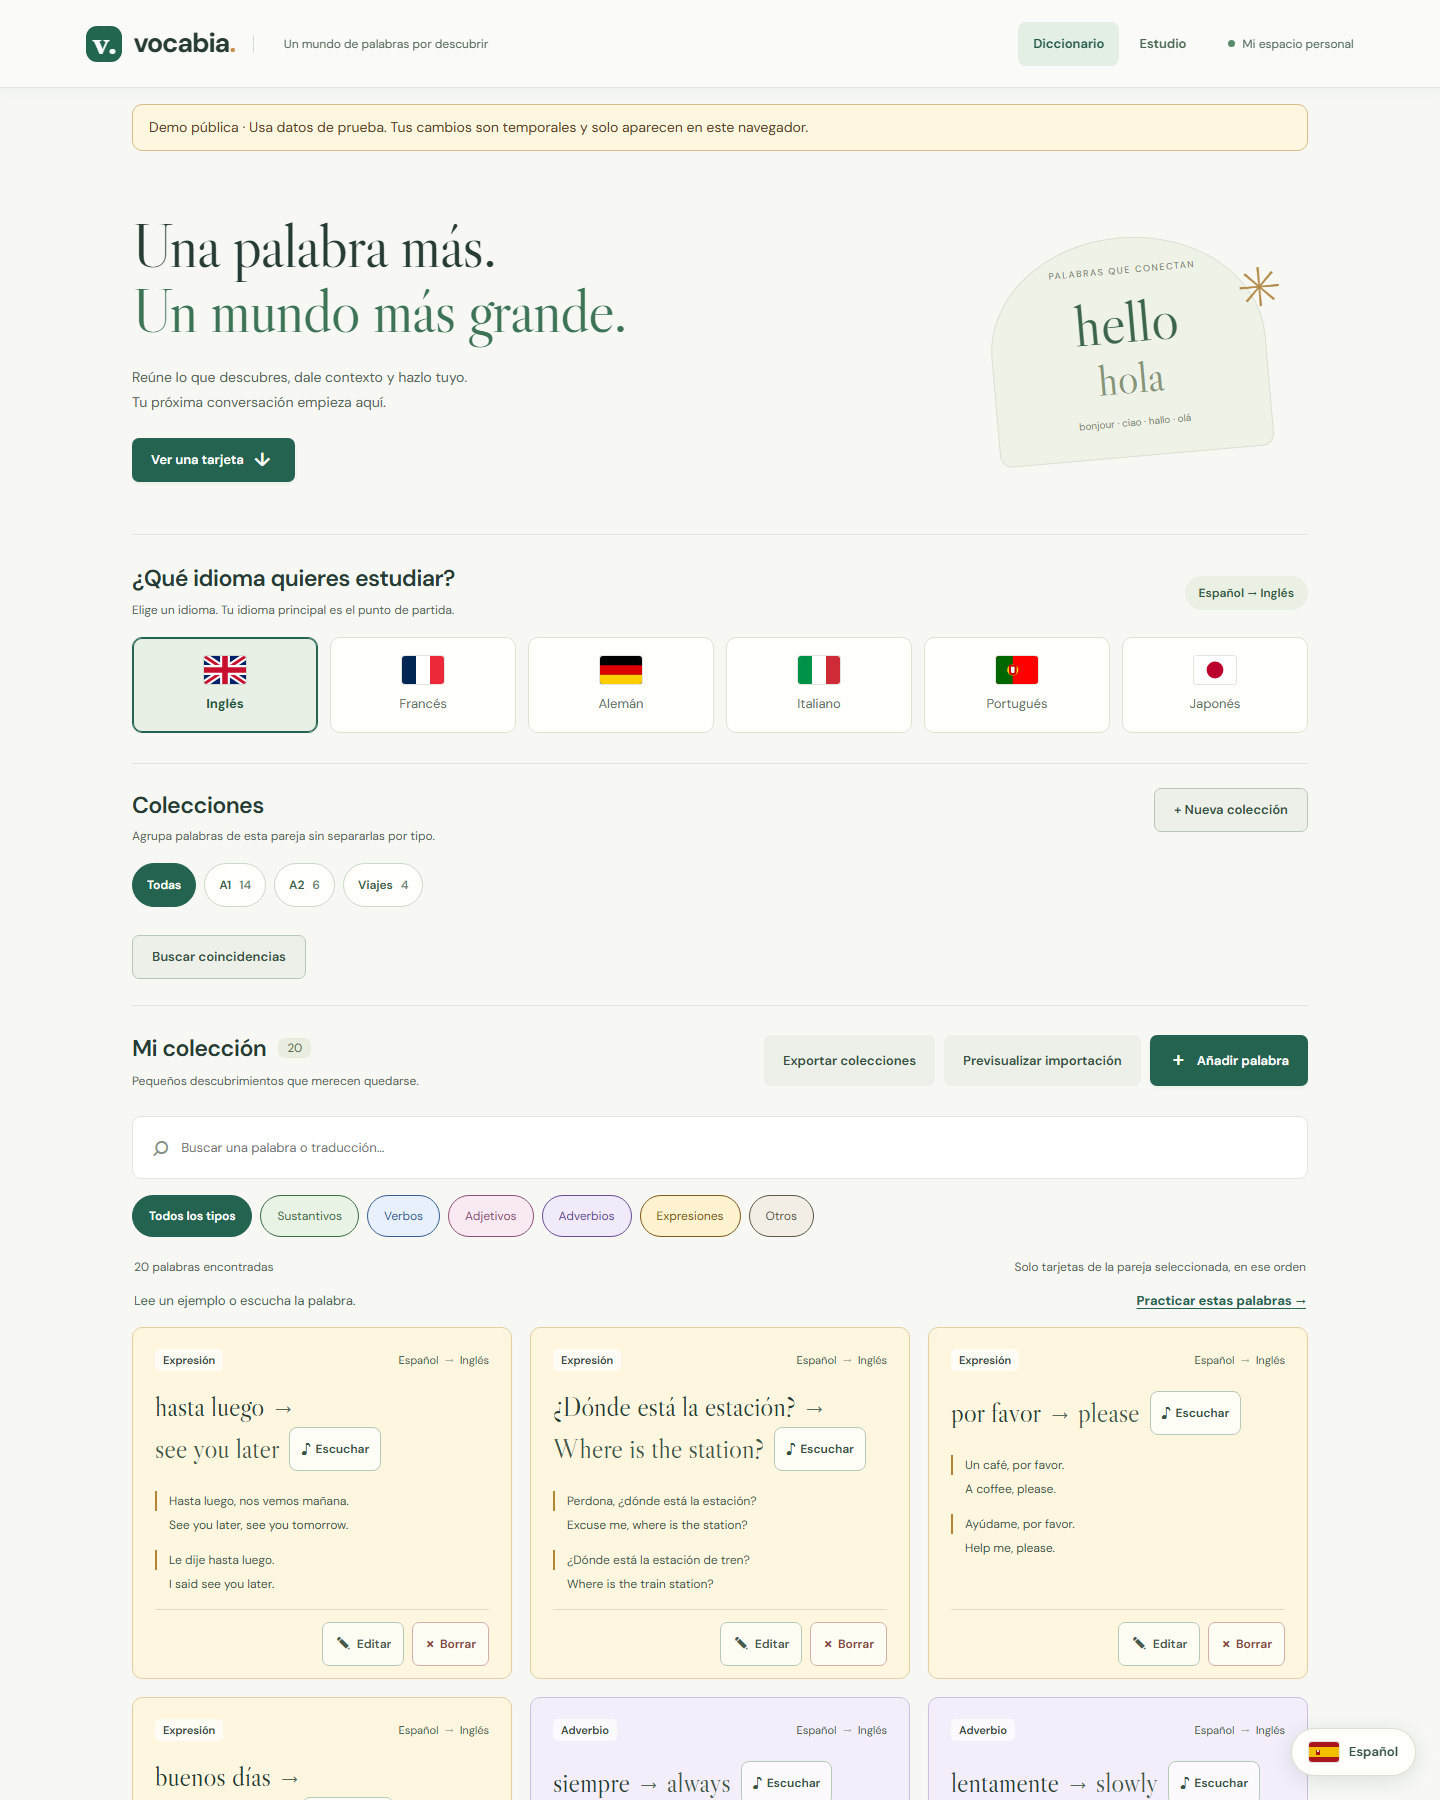
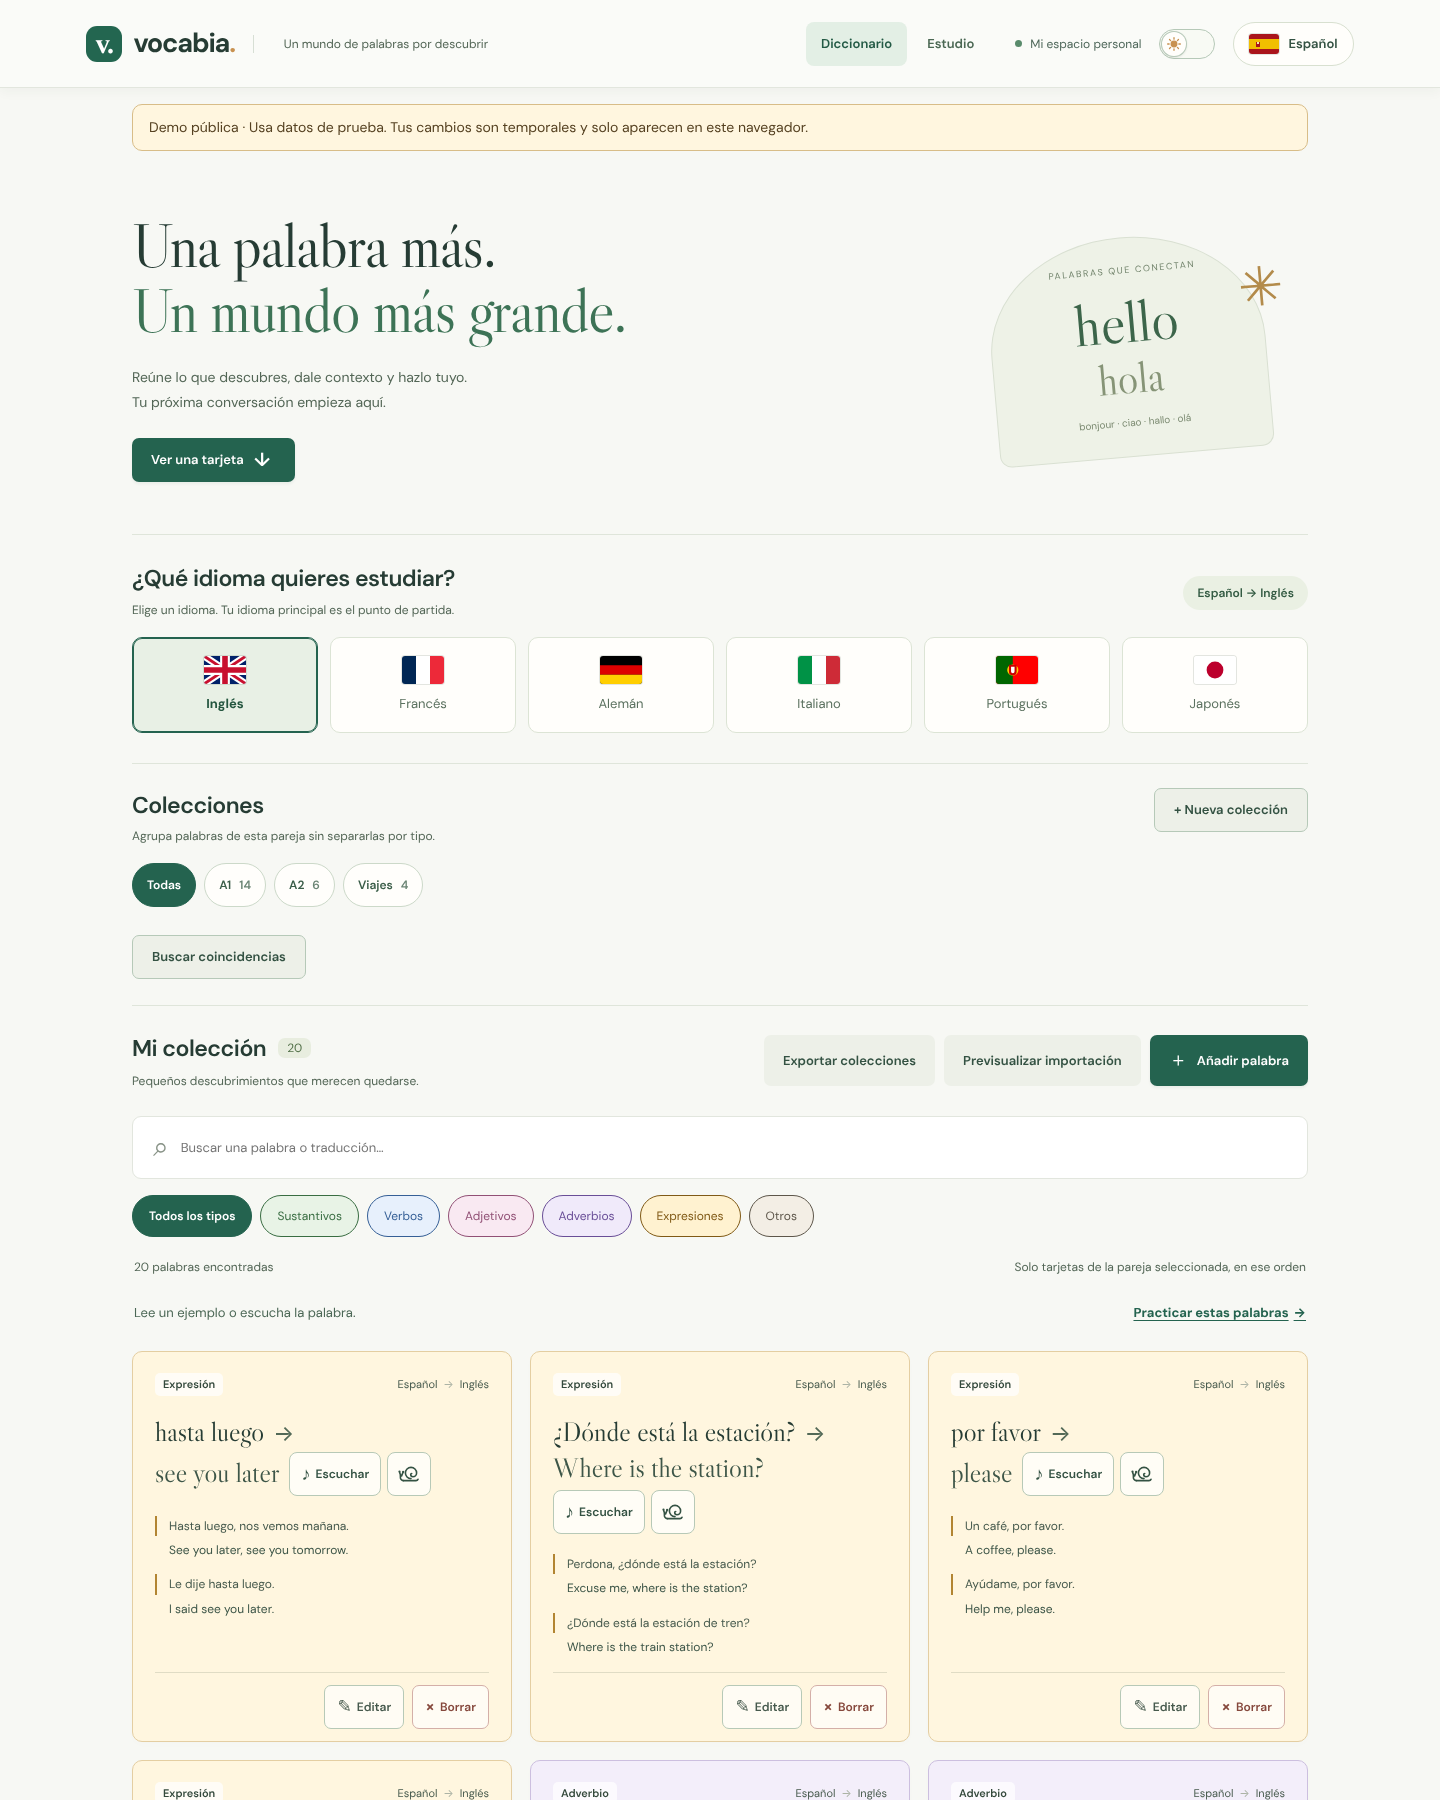
docs: README e historial al día
- README: 60 tarjetas de demo (incluida la pareja inglés → español), tema oscuro con
  interruptor, escuchar despacio, resumen de ronda, respuestas con varias opciones,
  protecciones de la demo y nueva sección de seguridad
- Capturas de Diccionario y Estudio regeneradas y nueva captura del tema oscuro
- Historial: entrada de la revisión de seguridad, accesibilidad y limpieza

diff --git a/README.md b/README.md
@@ -12,6 +12,7 @@
 - [Probar la demo en tu equipo](#probar-la-demo-en-tu-equipo)
 - [Instalar para desarrollar](#instalar-para-desarrollar)
 - [Herramientas y decisiones](#herramientas-y-decisiones)
+- [Seguridad](#seguridad)
 - [Comprobaciones](#comprobaciones)
 - [Estado y límites](#estado-y-límites)
 
@@ -29,14 +30,21 @@ Practica las palabras de la pareja y la colección seleccionadas. Puedes escribi
 
 ![Vista de estudio de Vocabia con selección de idiomas, colecciones y tipos de ejercicio](docs/screenshots/estudio.png)
 
+### Tema oscuro
+
+Un interruptor con sol y luna en la cabecera cambia entre tema claro y oscuro. Si no lo tocas, la aplicación sigue el tema del sistema.
+
+![Diccionario de Vocabia en tema oscuro, con el interruptor de tema en la cabecera](docs/screenshots/tema-oscuro.png)
+
 Las capturas muestran la **demo local** en escritorio. La interfaz también se adapta a móvil.
 
 ## Recorrido en un minuto
 
-1. En **Diccionario**, mira el idioma de referencia en el botón de la esquina inferior derecha y elige una bandera para estudiar otro idioma.
-2. Pulsa **Ver una tarjeta** o baja hasta **Mi colección**. Lee un ejemplo y prueba **Escuchar** en una tarjeta.
+1. En **Diccionario**, mira el idioma de referencia en el botón con bandera de la cabecera y elige otra bandera para estudiar otro idioma. Si cambias la interfaz a inglés, verás las tarjetas de inglés a español.
+2. Pulsa **Ver una tarjeta** o baja hasta **Mi colección**. Lee un ejemplo y prueba **Escuchar** o el botón del caracol, que lee la palabra despacio.
 3. Filtra por **Verbos** o entra en una colección como **A1**. Pulsa **Añadir palabra** si quieres crear una tarjeta de prueba.
-4. Entra en **Estudio** desde la cabecera y elige **Practicar**, **Escuchar y elegir** o **Hablar y comprobar**.
+4. Entra en **Estudio** desde la cabecera y pulsa **Practicar (N)**. Marca alguna palabra con **Me costó**: al final de la ronda, el resumen te ofrece repasar solo las difíciles.
+5. Prueba el interruptor de sol y luna para cambiar entre tema claro y oscuro.
 
 En la demo, los cambios son temporales. Puedes experimentar sin alterar las tarjetas de otro visitante.
 
@@ -44,10 +52,11 @@ En la demo, los cambios son temporales. Puedes experimentar sin alterar las tarj
 
 - Crear, editar, borrar y buscar palabras o expresiones con traducción, idiomas, tipo, notas y uno o más ejemplos.
 - Filtrar por pareja de idiomas, tipo de palabra y colecciones personalizadas.
-- Guardar formas de verbos en inglés y escucharlas desde la tarjeta cuando estén disponibles.
+- Guardar formas de verbos en inglés y escucharlas desde la tarjeta cuando estén disponibles. Cada palabra se puede escuchar también a velocidad lenta.
 - Importar y exportar colecciones en JSON. Antes de importar, puedes revisar qué entrará.
 - Detectar tarjetas coincidentes y preparar una fusión de ejemplos, notas y formas verbales con vista previa y opción de deshacer.
-- Practicar con ejercicios escritos, de escucha y de pronunciación. El progreso de estudio pertenece a la sesión local; no se incluye en las colecciones exportadas.
+- Practicar con ejercicios escritos, de escucha y de pronunciación. Si una traducción tiene varias opciones («averiguar / entender»), vale cualquiera de ellas. Al terminar, el resumen cuenta las palabras que sabías y las que te costaron, y ofrece repasar las difíciles. El progreso de estudio pertenece a la sesión local; no se incluye en las colecciones exportadas.
+- Usar la aplicación en tema claro u oscuro, con teclado y con lector de pantalla.
 
 La interfaz está disponible en español, inglés, francés, alemán, italiano, portugués y japonés.
 
@@ -68,9 +77,11 @@ npm run build:demo
 npm run start:demo
 ```
 
-Abre [http://localhost:3001](http://localhost:3001). La demo incluye **40 tarjetas ficticias y 80 frases de ejemplo**: 20 tarjetas de español a inglés y cuatro para cada uno de los otros cinco idiomas de estudio. También trae las colecciones **A1**, **A2** y **Viajes**.
+Abre [http://localhost:3001](http://localhost:3001). La demo incluye **60 tarjetas ficticias y 120 frases de ejemplo**: 20 tarjetas de español a inglés, las mismas 20 de inglés a español (para quien use la interfaz en inglés) y cuatro de español a cada uno de los otros cinco idiomas de estudio. También trae las colecciones **A1**, **A2** y **Viajes**.
 
 Cada navegador recibe una base temporal propia. Los cambios desaparecen tras 30 minutos sin actividad o al reiniciar el servidor. **Usa solo datos de prueba**: esta demo no tiene cuentas ni almacenamiento permanente.
+
+La demo pública está protegida para un servidor compartido: el número de sesiones es limitado (variable `DEMO_MAX_SESSIONS`, 12 por defecto) y, al llegar al máximo, se recicla la sesión inactiva más antigua; las importaciones tienen un tamaño máximo menor que en local, y el servidor envía cabeceras de seguridad (Content-Security-Policy, `nosniff`, `Referrer-Policy`).
 
 ## Instalar para desarrollar
 
@@ -105,6 +116,12 @@ La **API** es la parte del servidor que recibe peticiones del navegador: por eje
 
 La estructura principal es `frontend/` para la interfaz, `backend/` para la API y los datos, y `docs/` para las capturas y el historial. Las decisiones y etapas anteriores están en la [guía de desarrollo](docs/historial-desarrollo.md).
 
+## Seguridad
+
+- La API solo acepta escrituras con `Content-Type: application/json`, lo que bloquea las peticiones simples que otra web podría lanzar contra la app local (CSRF).
+- En local, la API responde solo a `localhost` y `127.0.0.1`, para evitar ataques de *DNS rebinding*.
+- Zod valida en el servidor todos los datos y los identificadores antes de llegar a la base de datos, y las consultas SQL son parametrizadas.
+
 ## Comprobaciones
 
 ```powershell
@@ -120,7 +137,8 @@ npm run build
 
 - La demo todavía no está publicada en una URL; por ahora se ejecuta en local.
 - No hay cuentas ni sincronización entre dispositivos. La demo se reinicia y el modo de desarrollo guarda los datos en el equipo.
-- La voz depende de las funciones y voces disponibles en cada navegador; el reconocimiento de pronunciación puede fallar incluso cuando la palabra se diga bien.
+- La voz depende de las funciones y voces disponibles en cada navegador; el reconocimiento de pronunciación puede fallar incluso cuando la palabra se diga bien, y algunas voces ignoran la velocidad lenta.
+- El tema oscuro usa la función CSS `light-dark()`, disponible desde 2024 en Chrome, Edge, Firefox y Safari.
 - El tutor con IA y el dictado para crear tarjetas son ideas posteriores a esta beta.
 
 [Ver el repositorio en GitHub](https://github.com/SulimanHB/Vocabia)

diff --git a/docs/historial-desarrollo.md b/docs/historial-desarrollo.md
@@ -435,6 +435,17 @@ Con la imagen `postgres:15-alpine` en un contenedor temporal, `npm run build` te
 
 `npm test` pasó 40 pruebas del backend y 81 del frontend; `npm run build` terminó correctamente y `npm audit --audit-level=high` no encontró vulnerabilidades conocidas en esa consulta. Las capturas de Diccionario y Estudio se generaron en Chrome con seis palabras ficticias y una base PGlite temporal en memoria. Antes de subir el código se revisaron los archivos nuevos, las variables de ejemplo y los cambios pendientes para evitar publicar datos locales o secretos. Falta probar esta versión en un teléfono físico y preparar un despliegue público con autenticación.
 
+### Revisión de seguridad, accesibilidad y limpieza — 22 y 23 de noviembre de 2026
+
+Se revisó el proyecto con varias auditorías (seguridad, accesibilidad y diseño, y sobreingeniería) y se aplicaron las mejoras por fases, cada una en su commit:
+
+- **Demo pública:** sesiones que no se agotan con visitas sin uso, límite de importación propio, cabeceras de seguridad y health check que no crea sesiones. Se preparó `render.yaml`, pero no se ha desplegado: cada sesión usa una base PGlite de unos 200 MB, por lo que el plan gratuito de 512 MB solo admite una sesión.
+- **Seguridad de la app local:** las escrituras exigen JSON (CSRF), la API solo responde a `localhost` (DNS rebinding) y los identificadores se validan igual en todas las rutas.
+- **Datos:** la exportación grande se puede volver a importar, la vista previa detecta colecciones repetidas con acentos codificados de forma distinta, y las migraciones se aplican en un bucle con una transacción por archivo.
+- **Interfaz:** tarjetas en el idioma de la interfaz, opciones de Estudio más claras, resumen de ronda con acceso a las palabras difíciles, botón de idioma en la cabecera, contraste y zonas táctiles corregidos, tema oscuro con interruptor y botón para escuchar despacio.
+
+`npm test` pasó 53 pruebas del backend y 96 del frontend; `lint`, `typecheck`, `build` y `npm run test:postgres` terminaron correctamente y `npm audit` no encontró vulnerabilidades. La interfaz se comprobó en Chromium a 320, 375, 390 y 1440 px.
+
 ## API
 
 | Método | Ruta | Resultado |
